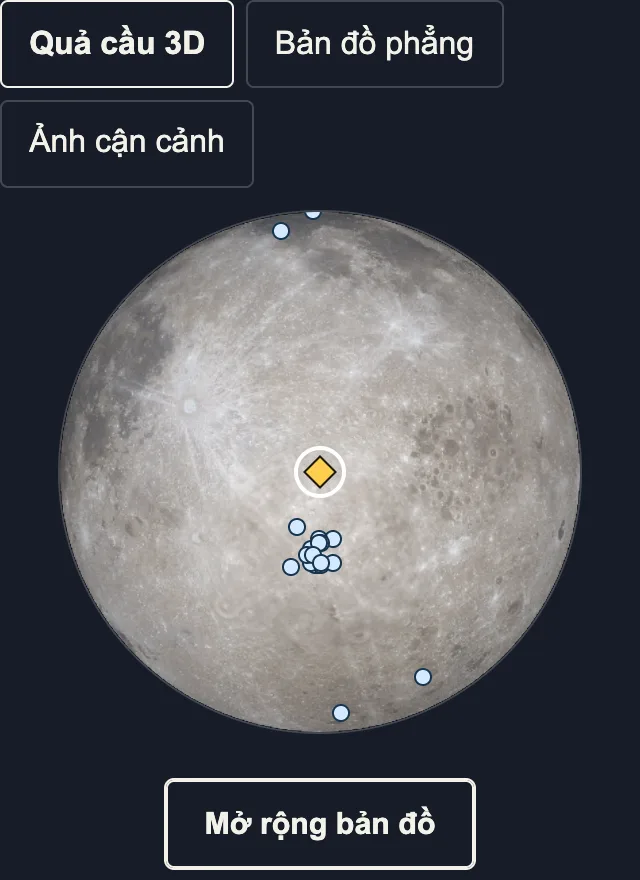
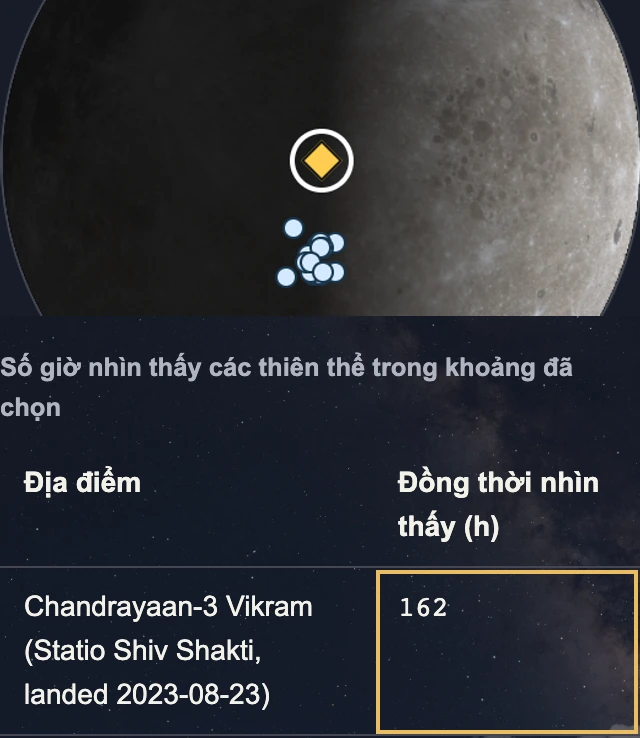
Show readers exactly where to find Vikram’s joint visibility hours

diff --git a/frontend/lib/i18n.ts b/frontend/lib/i18n.ts
@@ -318,7 +318,7 @@ export const vietnamese: Record<string, string> = {
   "Try the week of November 14–20, 2026 (UTC). You can then change the dates.": "Thử với tuần từ ngày 14 đến hết ngày 20/11/2026 (UTC). Sau đó bạn có thể đổi sang khoảng ngày của mình.",
   "Select “I have dates”. Start on November 14 and end on November 21. The last day counted is November 20.": "Chọn “Tôi đã chọn ngày”. Nhập ngày bắt đầu 14/11 và ngày kết thúc 21/11. Ngày cuối cùng được tính là 20/11.",
   "Select “Sun and Earth together” and press “Find sites” to rank sites by the hours when both are visible.": "Chọn “Mặt Trời và Trái Đất đồng thời”, rồi bấm “Tìm địa điểm”. Nơi thấy cả hai lâu nhất sẽ đứng đầu.",
-  "The gold diamond marks the top site. In this example, Vikram has 162 hours out of 168. Select another dot to read that site's hours.": "Hình thoi vàng đánh dấu điểm đứng đầu. Trong ví dụ này, ở Vikram có thể thấy cả hai trong 162 trên tổng số 168 giờ. Chọn một chấm khác để xem số giờ tại đó.",
+  "Find Vikram’s gold diamond on the map. In its table row, “Both visible (h)” reads 162. That is how many of the week’s 168 hours both the Sun and Earth were visible. Select another dot to see that site’s hours.": "Tìm hình thoi vàng của Vikram trên bản đồ. Trong dòng Vikram của bảng, cột “Đồng thời nhìn thấy (h)” ghi 162. Nghĩa là từ Vikram có thể thấy cả Mặt Trời và Trái Đất trong 162 trên tổng số 168 giờ của tuần đó. Chọn một chấm khác để xem số giờ ở địa điểm đó.",
   "Imagine standing at the landing site. The hours below count the time when you could see both the Sun and Earth above the local terrain.": "Hãy hình dung bạn đang đứng tại điểm đáp. Số giờ bên dưới cho biết trong bao lâu bạn có thể thấy cả Mặt Trời và Trái Đất mà không bị địa hình che khuất.",
   "Start and end times are approximate (±{hours} h).": "Giờ bắt đầu và kết thúc mỗi khoảng nhìn thấy là ước tính (±{hours} giờ).",
   "In this week, both are visible for {firstHours} h at {firstSite} and {secondHours} h at {secondSite}.": "Trong tuần này, từ {firstSite} có thể thấy cả hai trong {firstHours} giờ. Tại {secondSite}, thời gian đó là {secondHours} giờ.",

diff --git a/frontend/app/page.tsx b/frontend/app/page.tsx
@@ -81,12 +81,12 @@ export default function Home() {
             {[
               ["Choose your dates", "Select “I have dates”. Start on November 14 and end on November 21. The last day counted is November 20."],
               ["Choose what to compare", "Select “Sun and Earth together” and press “Find sites” to rank sites by the hours when both are visible."],
-              ["Read the map and table", "The gold diamond marks the top site. In this example, Vikram has 162 hours out of 168. Select another dot to read that site's hours."],
+              ["Read the map and table", "Find Vikram’s gold diamond on the map. In its table row, “Both visible (h)” reads 162. That is how many of the week’s 168 hours both the Sun and Earth were visible. Select another dot to see that site’s hours."],
             ].map(([title, instruction], index) => <li key={title}>
               <strong>{t(title)}</strong>
               <p>{t(instruction)}</p>
               <img src={`/images/guide/plan-step-${index + 1}-${locale}.webp`} width={640}
-                height={(locale === "vi" ? [594, 340, 880] : [510, 340, 880])[index]} alt="" loading="lazy" />
+                height={(locale === "vi" ? [594, 340, 738] : [510, 340, 654])[index]} alt="" loading="lazy" />
             </li>)}
           </ol>
         </details>

diff --git a/docs/CREDITS.md b/docs/CREDITS.md
@@ -77,7 +77,7 @@ The decorative background uses the celestial-coordinate map from *Deep Star Maps
 
[1 lines of base64/hex data omitted]
 
-The homepage walkthrough uses team-created screenshots of the Moon Plan B interface in English and Vietnamese, captured from the saved B2 planner for November 14–21, 2026 UTC. The first two images use numbered callouts. The third shows the selected gold diamond on the default 3D planner globe, using the credited [NASA CGI Moon Kit](https://svs.gsfc.nasa.gov/4720/) map. Codex assisted capture, cropping and WebP encoding.
+The homepage walkthrough uses team-created screenshots of the Moon Plan B interface in English and Vietnamese, captured from the saved B2 planner for November 14–21, 2026 UTC. The first two images use numbered callouts. The third shows the selected gold diamond on the default 3D planner globe above a crop of Vikram’s row with the simultaneous-visibility hours outlined. The globe uses the credited [NASA CGI Moon Kit](https://svs.gsfc.nasa.gov/4720/) map. Codex assisted capture, cropping and WebP encoding.
 
 The orbit walkthrough uses the existing NASA SVS texture and Horizons directions, B2 weekly visibility, two producer terrain horizons and four UTC observations. The raw response URLs and SHA-256 digests are in [the sample archive](../frontend/lib/orbit-sky-samples.json). Codex assisted the walkthrough, rise/set display, extraction, EN/VI copy and tests. The drawn horizon is a data visualization; it is not a lunar photograph.
 

diff --git a/HANDOFF.md b/HANDOFF.md
@@ -1,6 +1,6 @@
 # Current handoff — 15 November 2026
 
-Planner maps open in 3D and switch to flat. Both show [start-date Sun direction](docs/GLOBE_SUNLIGHT.md#sun-direction-on-the-planner-maps); live catalogs also show mean sunlight. LROC links follow the close-up. The inspector links to site reports or hourly live observations. The home guide compares sites or weeks in three illustrated steps. [Public planner](https://moon-plan-b.vercel.app/plan). The [orbit presentation](qa/check_orbit.mjs) opens at `/orbit`. Live guide answers, saved site reports and date presets [preserve the live run](qa/check_planner_run_links.mjs) on return. The [guide](qa/check_astronaut_guide.mjs) retains the source for hourly readings and [site choices](qa/check_guide_imported_planning.mjs). See [planner](qa/check_planner_map.mjs) and [home](qa/check_home_navigation.mjs).
+Planner maps open in 3D and switch to flat. Both show [start-date Sun direction](docs/GLOBE_SUNLIGHT.md#sun-direction-on-the-planner-maps); live catalogs also show mean sunlight. LROC links follow the close-up. The inspector links to site reports or hourly live observations. The home guide pairs Vikram’s map marker with its 162-hour table result. [Public planner](https://moon-plan-b.vercel.app/plan). The [orbit presentation](qa/check_orbit.mjs) opens at `/orbit`. Live guide answers, saved site reports and date presets [preserve the live run](qa/check_planner_run_links.mjs) on return. The [guide](qa/check_astronaut_guide.mjs) retains the source for hourly readings and [site choices](qa/check_guide_imported_planning.mjs). See [planner](qa/check_planner_map.mjs) and [home](qa/check_home_navigation.mjs).
 
 ## Live comparison
 
